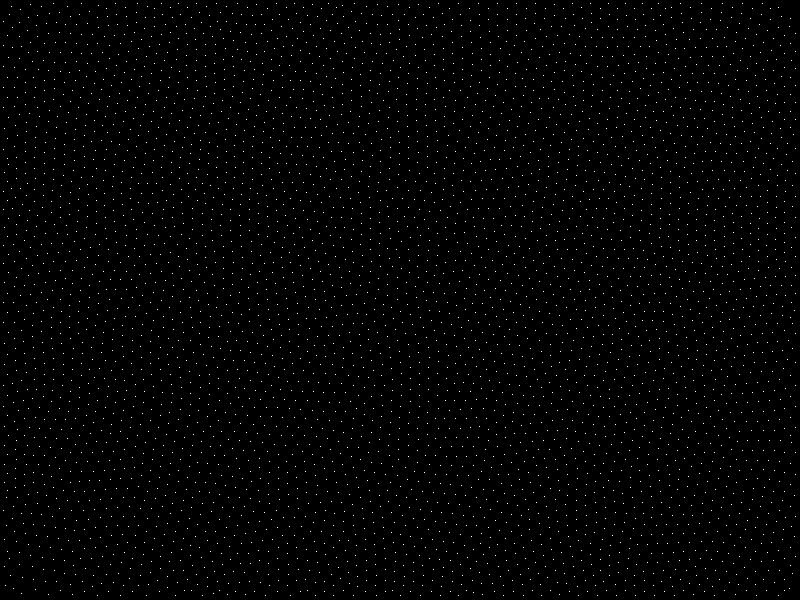
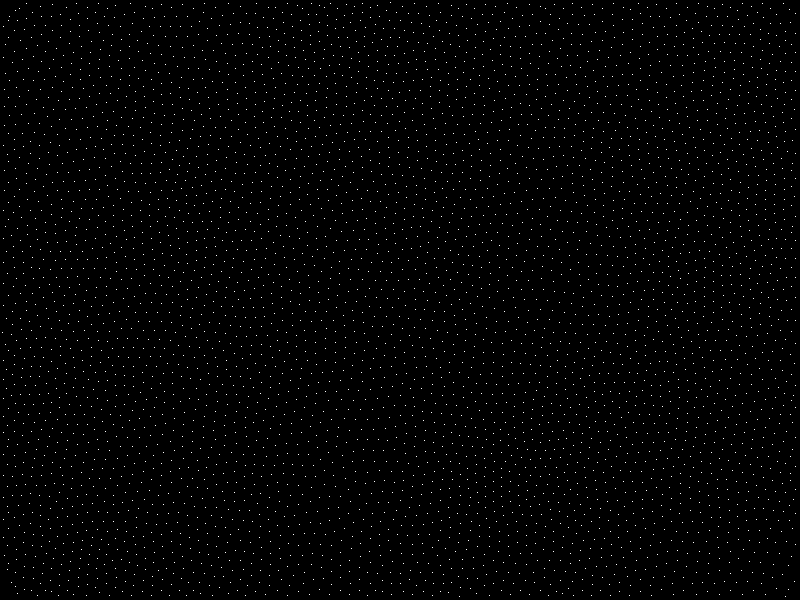
minor tweaks

diff --git a/silktone.py b/silktone.py
@@ -7,7 +7,7 @@ from scipy.spatial import Delaunay
 
 def triangle_height(vertices):
     '''
-    Returns the height (the distance between a vertex and opposite base) R to PQ.
+    Returns the height (the distance between a vertex and opposing base) R to PQ.
 
     Parameter:
         vertices (list): the vertices of a triangle [P, Q, R]
@@ -21,9 +21,8 @@ def triangle_height(vertices):
     #               2 x Area                   /        length PQ
     return (a*d - b*c + c*f - d*e + b*e - a*f) / np.sqrt((c - a)**2 + (d - b)**2)
 
-triangle = [(0, 10), (20,20),(15, 0)]
 
-def stochastic_dot_screen(width=800, height=600, coverage=0.01, relaxation=200):
+def stochastic_dot_screen(width=800, height=600, coverage=0.01, relaxation=50):
     '''
     Returns 2d array of given dimensions, filled with randomly distributed dots.
     
